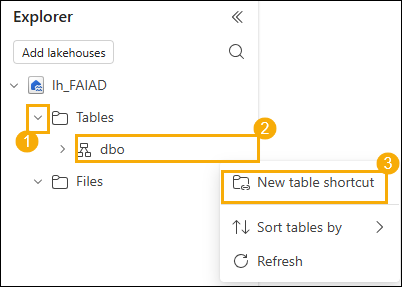
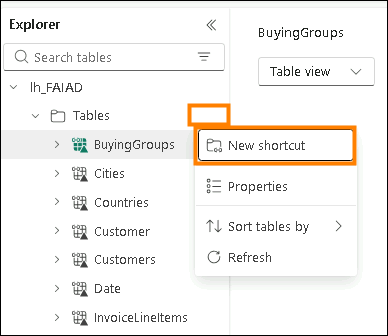
Revert "Update"

diff --git a/English/Labs/Lab-07.md b/English/Labs/Lab-07.md
@@ -461,9 +461,9 @@ In a real scenario, data is updated at the source. Since we are in a training en
 
     ![](../media/Lab-07/image46.png)
 
-5. From the **Explorer pane** on the left, select the **ellipsis (...)** next to **dbo** under tables.
+5. From the **Explorer pane** on the left, select the **ellipsis (...)** next to **Tables**.
 
-6. Select **New table shortcut**.
+6. Select **New shortcut**.
 
     ![](../media/Lab-07/image47.png)
 
@@ -499,7 +499,7 @@ In a real scenario, data is updated at the source. Since we are in a training en
 
     ![](../media/Lab-07/image51.png)
 
-    > Notice in the **Explorer pane** on the left, we now have the InvoicesMay table. Now we need to update the Sales view.
+    Notice in the **Explorer pane** on the left, we now have the InvoicesMay table. Now we need to update the Sales view.
 
 19. On the **top right** of the screen, select **Lakehouse -\> SQL analytics endpoint**.
 
@@ -658,11 +658,11 @@ In a real scenario, data is updated at the source. Since we are in a training en
 
 23. Select **rpt_Sales_Report** from the left menu bar to navigate back to the **report**.
 
-24. From the top menu select the **Refresh Icon** on the right. Notice now in the Line chart there is data for May 2024. Also, notice the Sales amount has increased.
+24. From the top menu select the **Refresh Icon**. Notice now in the Line chart there is data for May 2024. Also, notice the Sales amount has increased.
 
     ![](../media/Lab-07/image54.png)
 
-    We do not have to refresh the data model and report when data changes. This is the advantage of Direct Lake and Direct query.
+    We do not have to refresh the data model and report when data changes.This is the advantage of Direct Lake and Direct query.
 
     Let's revisit the challenges that are listed in the problem statement:
 

diff --git a/English/Labs/Lab-04.md b/English/Labs/Lab-04.md
@@ -54,7 +54,7 @@ By the end of this lab, you will have learned:
 
 ## Task 1: Copy SharePoint queries to Dataflow
 
-1. Let's navigate back to the Fabric workspace, **FAIAD_<inject key="Deployment ID" enableCopy="false"/>** **(1)** and select **lh_FAIAD** lakehouse you created in Lab 2, Task 2.
+1. Let's navigate back to the Fabric workspace, **FAIAD_<inject key="Deployment ID" enableCopy="false"/>** **(1)** you created in Lab 2, Task 2.
 
 3. Under the **Get data (2)** section, select **New Dataflow Gen2 (3)**.
 
@@ -317,9 +317,9 @@ You should be in the Lakehouse **lh_FAIAD**. Make sure you are in Lakehouse view
 
 ![](../media/Lab-04/image34.png)
 
-1. In **Explorer** panel, select the **ellipsis** next to **dbo** under tables.
+1. In **Explorer** panel, select the **ellipsis** next to **Tables**.
 
-2. Select **New table shortcut**.
+2. Select **New Shortcut**.
 
     ![](../media/Lab-04/image35.png)
 
@@ -355,9 +355,9 @@ You should be in the Lakehouse **lh_FAIAD**. Make sure you are in Lakehouse view
 
 ## Task 10: Create a Shortcut to a Lakehouse
 
-1. In **Explorer** panel, select the **ellipsis** next to **dbo** under tables.
+1. In **Explorer** panel, select the **ellipsis** next to **Tables**.
 
-2. Select **New table shortcut**.
+2. Select **New Shortcut**.
 
     ![](../media/Lab-04/image35.png)
 

diff --git a/English/Labs/Lab-03.md b/English/Labs/Lab-03.md
@@ -54,13 +54,15 @@ Shortcuts are used to create a link to the target location. Shortcuts provide ac
 
     >**Note:** If you don't have a tab you can navigate back to your Workspace and open the Lakehouse from there.
 
-2. In the **Explorer** panel, **expand (1)** Tables and then select the **ellipsis (2)** next to **dbo**.
+2. In the **Explorer** panel, select the **ellipsis** next to
+    **Tables**.
 
-3. Select **New table shortcut (3).**
+3. Select **New Shortcut.**
 
     ![](../media/Lab-03/image6.png)
 
-4. **New Shortcut** dialog opens. Under **External sources**, select **Azure Data Lake Storage Gen2**.
+4. **New Shortcut** dialog opens. Under **External sources**, select
+    **Azure Data Lake Storage Gen2**.
 
     ![](../media/Lab-03/image7.png)
 
@@ -150,7 +152,7 @@ Shortcuts are used to create a link to the target location. Shortcuts provide ac
 
     ![](../media/Lab-03/image11.png)
 
-18. Notice all the Shortcuts are created as Tables in dbo. Select **BuyingGroups** table and notice we can see a preview of the data in the data panel.
+18. Notice all the Shortcuts are created as Tables. Select **BuyingGroups** table and notice we can see a preview of the data in the data panel.
 
     ![](../media/Lab-03/image12.png)
 

diff --git a/English/Labs/Lab-05.md b/English/Labs/Lab-05.md
@@ -159,7 +159,7 @@ Let's use a Pipeline to solve this.
 
 1. Let's navigate back to the Fabric workspace, **FAIAD_<inject key="Deployment ID" enableCopy="false"/>** by selecting the workspace in the left panel.
 
-2. From the top menu select **+ New item (1) -> Search and select Pipeline (3).**
+2. From the top menu select **+ New item (1) -> Pipeline (2).**
 
     ![](../media/Lab-05/image17.png)
 
